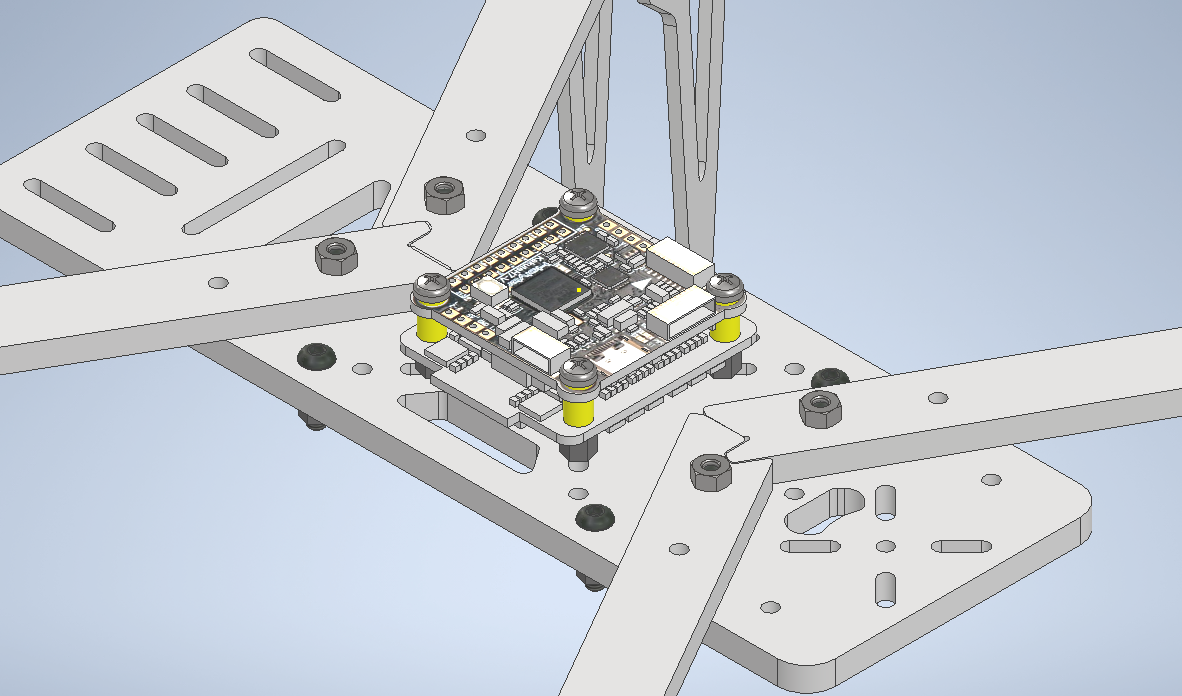
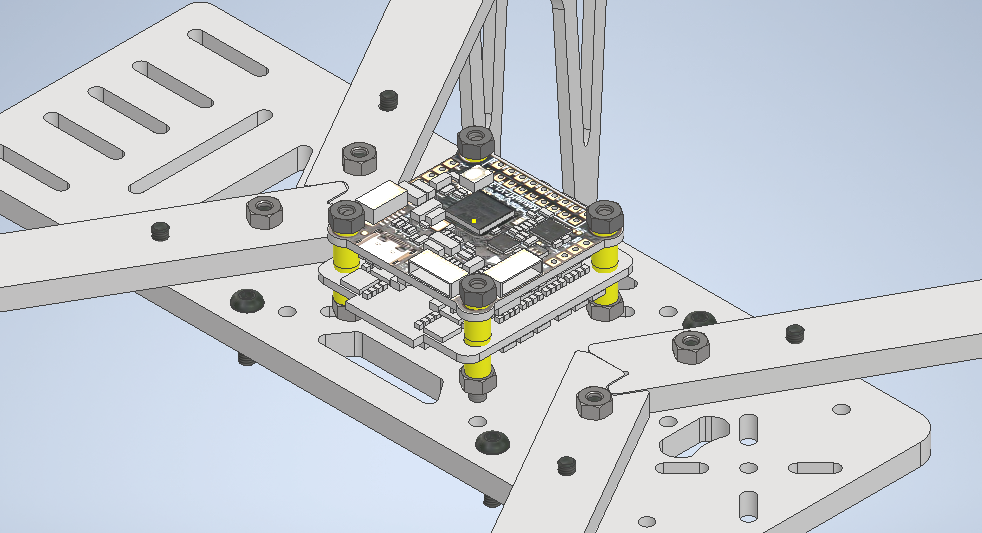
изменения сборки

diff --git a/docs/ru/assembly.md b/docs/ru/assembly.md
@@ -9,9 +9,9 @@
 |Винт M3x8 (НЕX)| 44 |
 |Винт M3x12| 10 |
 |Винт M3x14 (НЕX)| 8 |
-|Гайка M3| 8 |
-|Гайка нейлоновая M3| 2 |
-|Стойка нейлоновая 6мм| 4 |
+|Винт M3x25| 4 |
+|Гайка M3| 12 |
+|Гайка нейлоновая M3| 6 |
 |Стойка металлическая 10мм| 4 |
 |Стойка нейлоновая 10мм + 6мм| 4 |
 |Стойка нейлоновая 15мм | 12 |
@@ -49,22 +49,21 @@
 
 5. Сборка и установка полётного контроллера (FC) и регулятора оборотов (ESC)
 
-    5.1 На центральную раму устанавливаем 4 нейлоновые стойки 6мм, закрепляя их винтами M3x8 (HEX)
+    5.1 На центральную раму устанавливаем 4 винта M3x25, закрепляя гайками M3
 
     ![5.1](assets/neural_network_train/assembly/5.1.png)
 
-    5.2 Установите ESC и припаяйте к нему моторы
+    5.2 На гайки устанавливаем ESC, предварительно надев на него демпферные резинки. Припаиваем к нему моторы
 
     ![5.2](assets/neural_network_train/assembly/5.2.png)
 
-    5.3 Установите FC и закрепите винтами M3x12
+    5.3 Устанавливаем FC, предварительно надев на него демпферные резинки. Закрепляем нейлоновыми гайками M3
 
     ![5.3](assets/neural_network_train/assembly/5.3.png)
 
-    5.4 
-
-
 6. Установите металлические стойки 40мм на лучах, фиксируя винтами M3x14 (HEX).На них закрепите верхнюю платформу используя винты M3x8 (НЕX)
+
+![6.1](assets/neural_network_train/assembly/6.1.png)
 
 7. Установка Orange Pi 5
 
@@ -99,3 +98,5 @@
     ![8.3](assets/neural_network_train/assembly/8.3.png)
 
 9. Установите светодиодную ленту как показано на рисунке
+
+![9](assets/neural_network_train/assembly/9.png)
